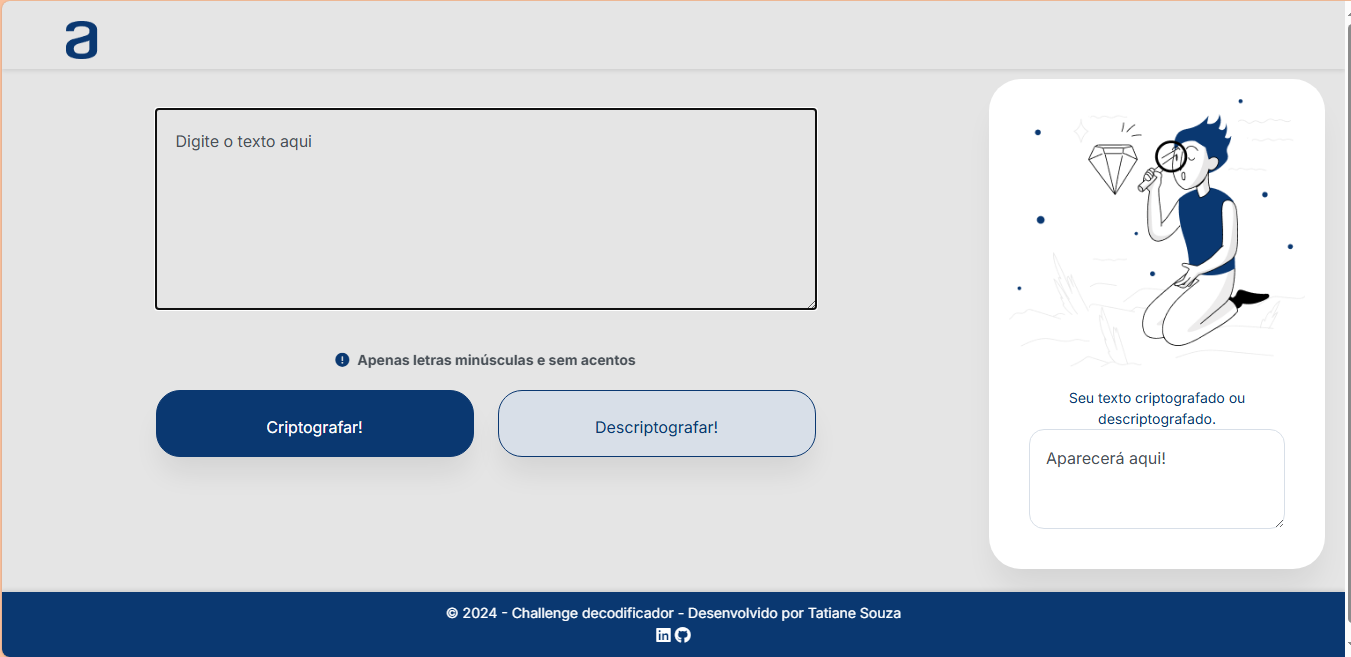
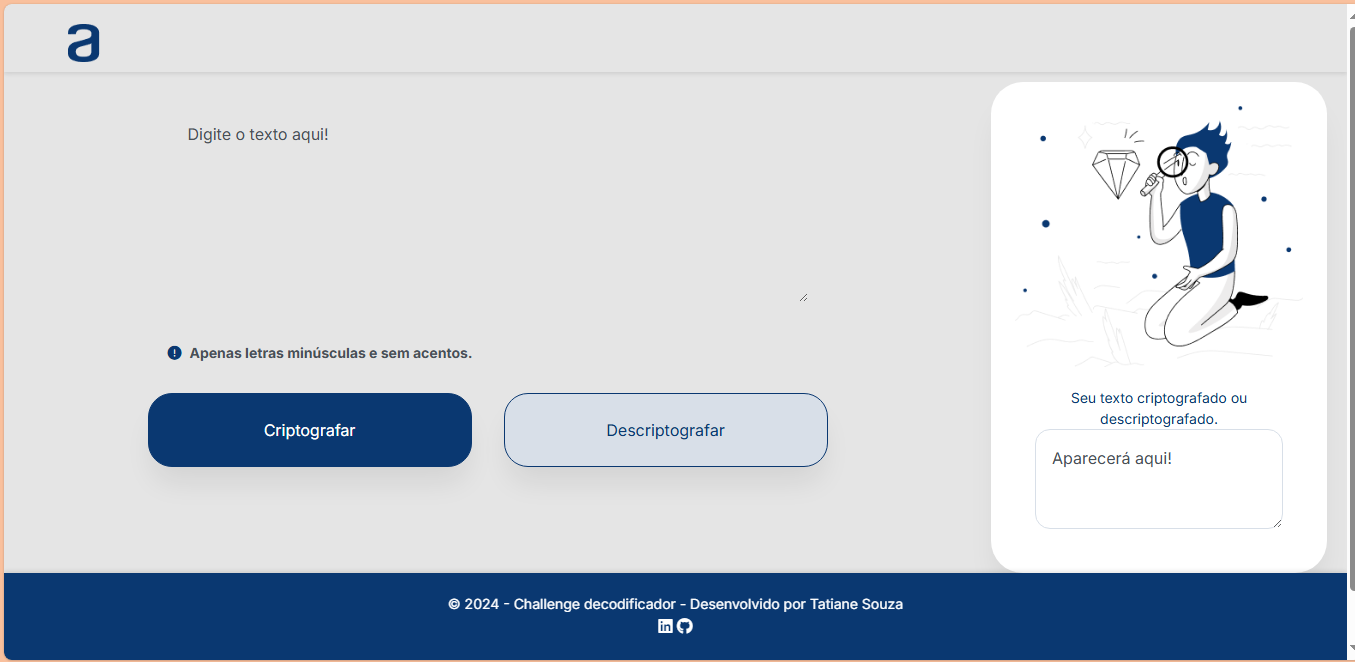
Entrega do desafio

diff --git a/css/style.css b/css/style.css
@@ -53,11 +53,13 @@ main {
     justify-content: center;
     gap: 40px;
     max-width: 100%;
-    margin-top: -20px;
-    margin-bottom: 60px;
+    margin-top: -20px; 
+    margin-bottom: 80px; 
     padding: 20px;
+    padding-bottom: 60px; 
     position: relative;
 }
+
 
 /* Seção Texto */
 .texto {
@@ -68,7 +70,8 @@ main {
     max-width: 680px;
     margin: 0 auto;
     padding: 30px 10px;
-    padding-bottom: 90px;
+    padding-bottom: 30px;
+    margin-bottom: 20px;
     position: relative;
 }
 
@@ -91,8 +94,11 @@ main {
     display: flex;
     align-items: center;
     margin-top: 20px;
+    margin-bottom: 10px;
     font-size: 14px;
     color: var(--cor-texto-neutro);
+    justify-content: flex-start; 
+    width: 100%; 
 }
 
 .text-aviso p {
@@ -125,6 +131,8 @@ main {
     flex-direction: column;
     align-items: center;
     justify-content: flex-start;
+    margin-bottom: 0px;
+
 }
 
 /* Estilo do Conteúdo da Mensagem */
@@ -172,6 +180,7 @@ main {
     width: 100%;
     max-width: 680px;
     margin: 20px 0;
+    margin-bottom: 10px; 
     gap: 24px;
     position: relative;
 }
@@ -251,10 +260,10 @@ main {
 .btn-criptografar:focus,
 .btn-desencriptar:focus,
 .btn-copiar:focus {
-    outline: 3px solid var(--cor-alerta); /* Contorno mais espesso para maior visibilidade */
-    outline-offset: 4px; /* Aumenta o espaçamento entre o contorno e o botão */
-    box-shadow: 0 0 0 4px rgba(10, 56, 113, 0.5); /* Adiciona uma sombra leve ao redor do contorno */
-    transition: outline 0.2s ease-in-out, box-shadow 0.2s ease-in-out; /* Suaviza a transição de foco */
+    outline: 3px solid var(--cor-alerta); 
+    outline-offset: 4px; 
+    box-shadow: 0 0 0 4px rgba(10, 56, 113, 0.5); 
+    transition: outline 0.2s ease-in-out, box-shadow 0.2s ease-in-out; 
 }
 
 
@@ -270,7 +279,7 @@ main {
 footer {
     background-color: var(--cor-primaria);
     color: var(--cor-branco);
-    padding: 10px;
+    padding: 20px;
     text-align: center;
     position: fixed;
     bottom: 0;
@@ -294,6 +303,8 @@ footer a:hover {
 }
 
 /* Estilo de Responsividade */
+
+/* Telas pequenas (smartphones) */
 @media (max-width: 768px) {
     .texto {
         padding: 10px;
@@ -316,11 +327,95 @@ footer a:hover {
     .btn-copiar {
         display: block;
     }
+
     .mensagem {
         max-width: 100%; 
         padding: 16px; 
     }
+
     .resposta {
         max-width: 100%; 
+    }
+
+    footer {
+        padding: 10px;
+        font-size: 12px;
+        line-height: 1.4;
+    }
+
+    footer p {
+        margin: 0 10px;
+    }
+}
+
+/* Telas médias (tablets, telas menores de laptops) */
+@media (min-width: 769px) and (max-width: 1024px) {
+    .texto {
+        padding: 15px;
+        max-width: 100%;
+    }
+
+    .botoes {
+        flex-direction: row;
+        gap: 24px;
+        width: 100%;
+    }
+
+    .btn-criptografar,
+    .btn-desencriptar,
+    .btn-copiar {
+        width: 48%;
+        height: auto; 
+    }
+
+    .mensagem {
+        max-width: 100%; 
+        padding: 20px; 
+    }
+
+    .resposta {
+        max-width: 100%; 
+    }
+
+    footer {
+        padding: 15px;
+        font-size: 16px;
+        line-height: 1.5;
+    }
+}
+
+/* Telas grandes (laptops, desktops) */
+@media (min-width: 1025px) {
+    .texto {
+        padding: 20px;
+        max-width: 680px;
+    }
+
+    .botoes {
+        flex-direction: row;
+        gap: 32px;
+        width: 680px;
+    }
+
+    .btn-criptografar,
+    .btn-desencriptar,
+    .btn-copiar {
+        width: 328px;
+        height: auto; 
+    }
+
+    .mensagem {
+        max-width: 336px; 
+        padding: 24px; 
+    }
+
+    .resposta {
+        max-width: 336px; 
+    }
+
+    footer {
+        padding: 20px;
+        font-size: 16px;
+        line-height: 1.6;
     }
 }

diff --git a/index.html b/index.html
@@ -36,7 +36,7 @@
                 <img src="./imgs/boneco.png" class="imagem-boneco" alt="Imagem de um boneco">
                 <p class="segundo-texto">Seu texto criptografado ou descriptografado.</p>
             </div>
-            <textarea class="resposta" cols="20" rows="10" placeholder="Aparecerá aqui!" aria-label="Resultado da criptografia ou descriptografiação"></textarea>
+            <textarea class="resposta" cols="30" rows="10" placeholder="Aparecerá aqui!" aria-label="Resultado da criptografia ou descriptografiação"></textarea>
             <button type="button" class="btn-copiar">Copiar</button>
         </section>
     </main>
